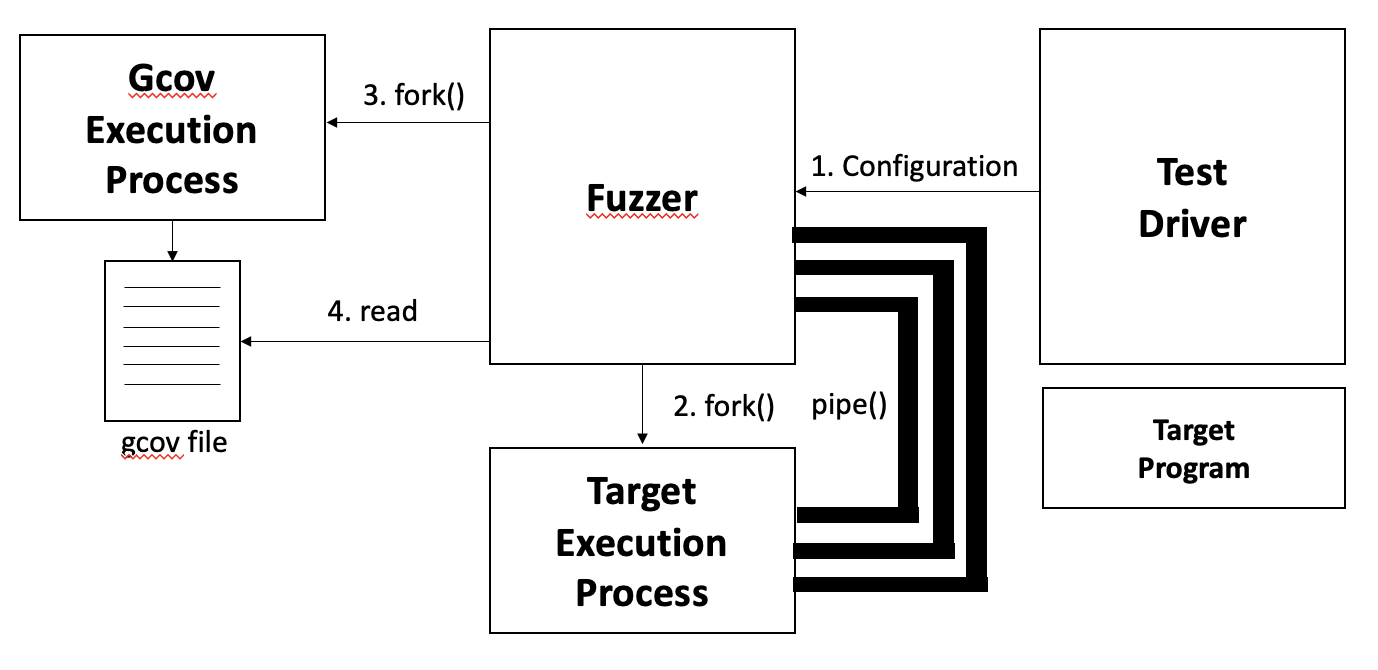
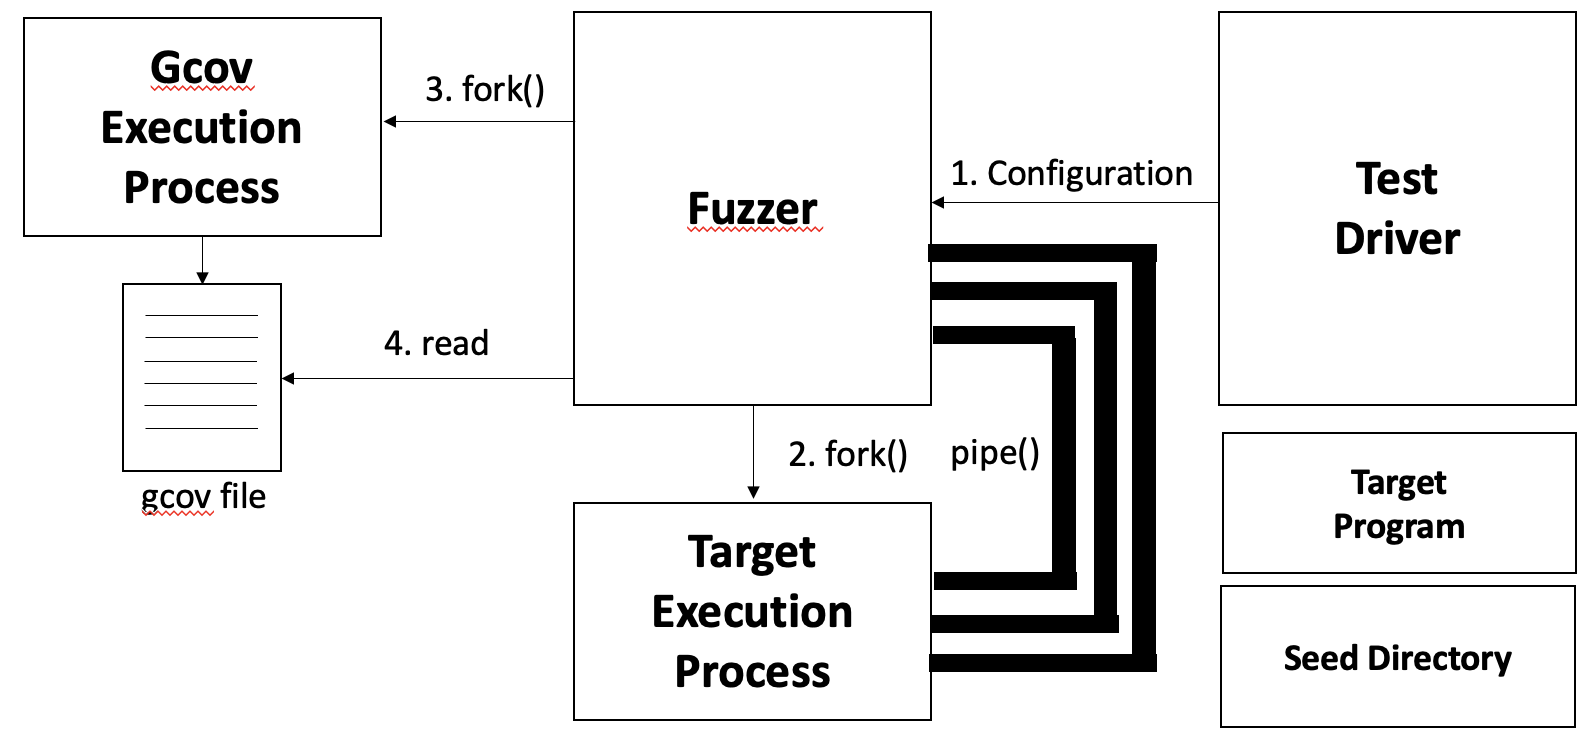
fuzzing

diff --git a/README.md b/README.md
@@ -1,8 +1,26 @@
-## The Fuzzing Book
-> Tools and Techniques for Generating Software Tests
+## The Fuzzing 
+> Fuzzing is a dynamic testing method among software testing methods that test a program by giving random input values to the target program.
 
 ## Fuzzer Architecture 
 <img src="./images/Fuzzer Architecture.png" alt="Fuzzer\ Architecture">
+
+### Workflow (Boosted GrayBox Fuzzing)
+1. Configuration by user 
+    - target program path 
+    - trial, test oracle, mutation
+2. Fuzzer run & Configuration Setting check 
+3. Load seed data & Mutation (mutation opertaors)
+    - delete_random_character 
+    - insert_random_character
+    - bit_flip_random_character
+    - byte_flip_random_character
+    - byte_simple_arithmatic
+    - known_integer
+4. Normalize seed choice proportion & Choose the seed probabilistically
+4. Execute target program & gcov
+5. Get the execution result as pipe and conduct a test oracle & Read the gcov file to get coverage information
+6. Repitition 3~5 steps
+7. Summary
 
 ### Link 
 > ### <a href="https://www.fuzzingbook.org/html/Tours.html">Tours through the Book</a>
@@ -12,4 +30,5 @@
 2. Fuzzing: Breaking Things with Random Inputs 
 3. Code coverage 
 4. Mutation-Based Fuzzing 
-5. Graybox Fuzzing 
+5. Graybox Fuzzing
+6. Boosted Graybox Fuzzing
